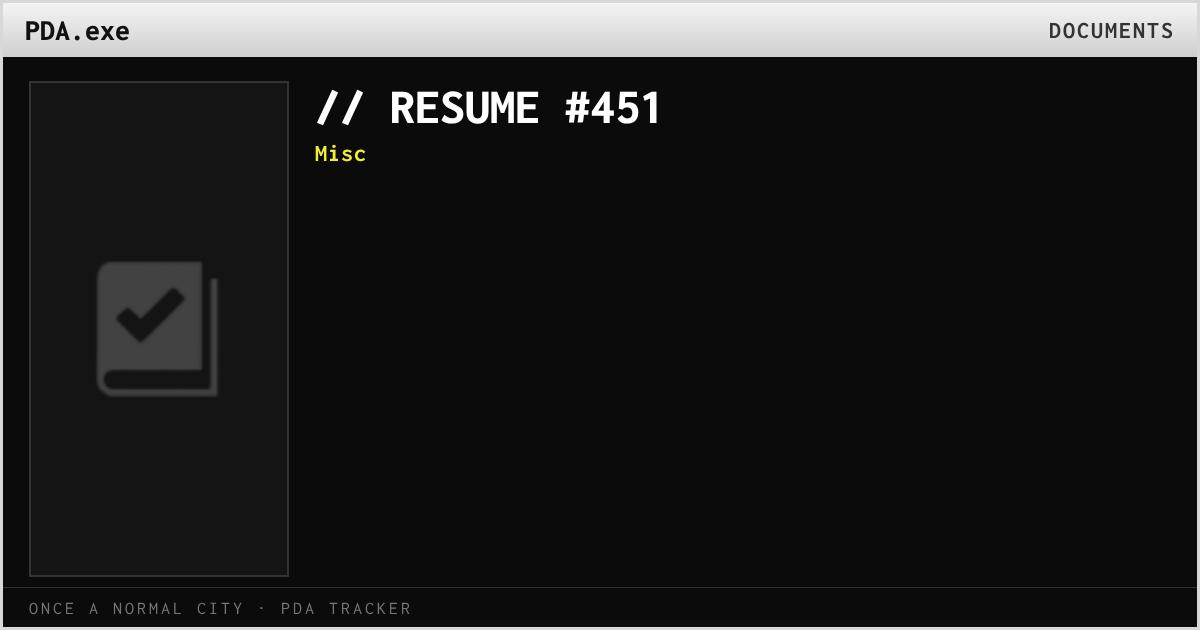
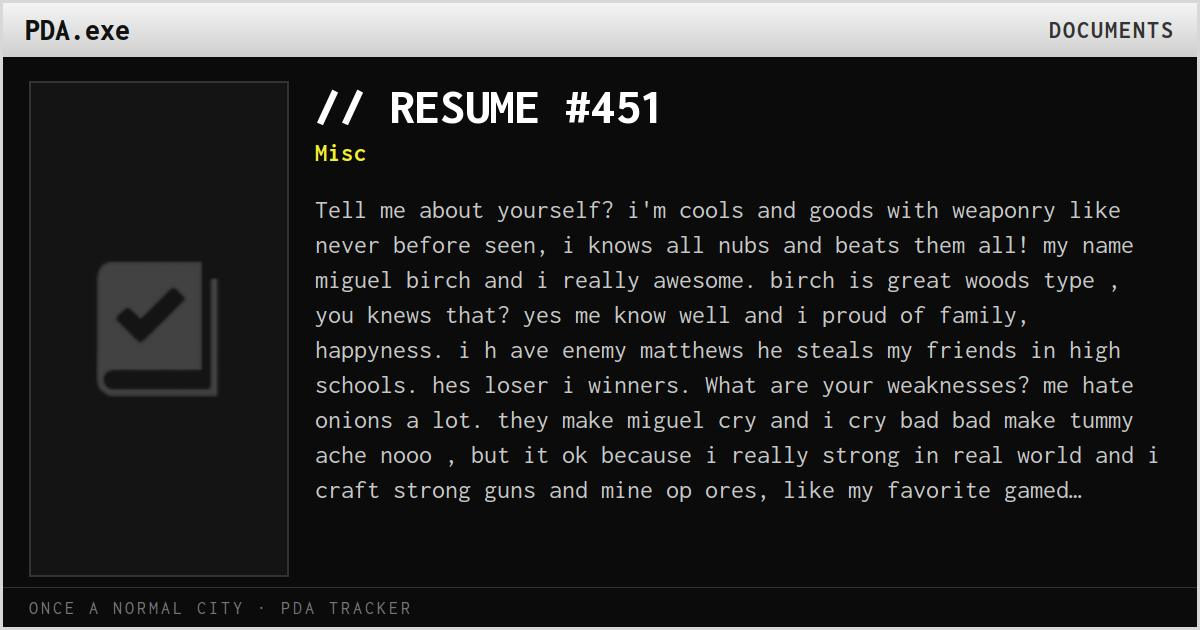
Update Discord previews

diff --git a/e/fqm0a/index.html b/e/fqm0a/index.html
@@ -1,12 +1,14 @@
 <!doctype html><html lang="en"><head><meta charset="utf-8">
 <title>Restaurant · PDA.exe</title>
-<meta name="description" content="Locations">
+<meta name="description" content="Locations
+Every district needs its restaurant. So came along the unnamed large restaurant, serving anyone's needs. It took some time for it to be constructed, the parking lot taking a majority of that duration. For some reason, while building the parking lot, the restaurant was…">
 <meta property="og:type" content="website">
 <meta property="og:site_name" content="PDA.exe · Once A Normal City tracker">
 <meta property="og:title" content="Restaurant">
-<meta property="og:description" content="Locations">
+<meta property="og:description" content="Locations
+Every district needs its restaurant. So came along the unnamed large restaurant, serving anyone's needs. It took some time for it to be constructed, the parking lot taking a majority of that duration. For some reason, while building the parking lot, the restaurant was…">
 <meta property="og:url" content="https://sleepyplinko.github.io/pdatracker/e/fqm0a/">
-<meta property="og:image" content="https://sleepyplinko.github.io/pdatracker/e/fqm0a/card.jpg?v=e1fdfea0">
+<meta property="og:image" content="https://sleepyplinko.github.io/pdatracker/e/fqm0a/card.jpg?v=8208d52c">
 <meta property="og:image:width" content="1200">
 <meta property="og:image:height" content="630">
 <meta property="og:image:alt" content="Restaurant in PDA.exe">

diff --git a/e/jb0op/index.html b/e/jb0op/index.html
@@ -1,12 +1,16 @@
 <!doctype html><html lang="en"><head><meta charset="utf-8">
 <title>Resume #451 · PDA.exe</title>
-<meta name="description" content="Misc">
+<meta name="description" content="Misc
+Tell me about yourself?
+i'm cools and goods with weaponry like never before seen, i knows all nubs and beats them all! my name miguel birch and i really awesome. birch is great woods type , you knews that? yes me know well and i proud of family, happyness. i h ave enemy…">
 <meta property="og:type" content="website">
 <meta property="og:site_name" content="PDA.exe · Once A Normal City tracker">
 <meta property="og:title" content="Resume #451">
-<meta property="og:description" content="Misc">
+<meta property="og:description" content="Misc
+Tell me about yourself?
+i'm cools and goods with weaponry like never before seen, i knows all nubs and beats them all! my name miguel birch and i really awesome. birch is great woods type , you knews that? yes me know well and i proud of family, happyness. i h ave enemy…">
 <meta property="og:url" content="https://sleepyplinko.github.io/pdatracker/e/jb0op/">
-<meta property="og:image" content="https://sleepyplinko.github.io/pdatracker/e/jb0op/card.jpg?v=c54b094b">
+<meta property="og:image" content="https://sleepyplinko.github.io/pdatracker/e/jb0op/card.jpg?v=664b453c">
 <meta property="og:image:width" content="1200">
 <meta property="og:image:height" content="630">
 <meta property="og:image:alt" content="Resume #451 in PDA.exe">
